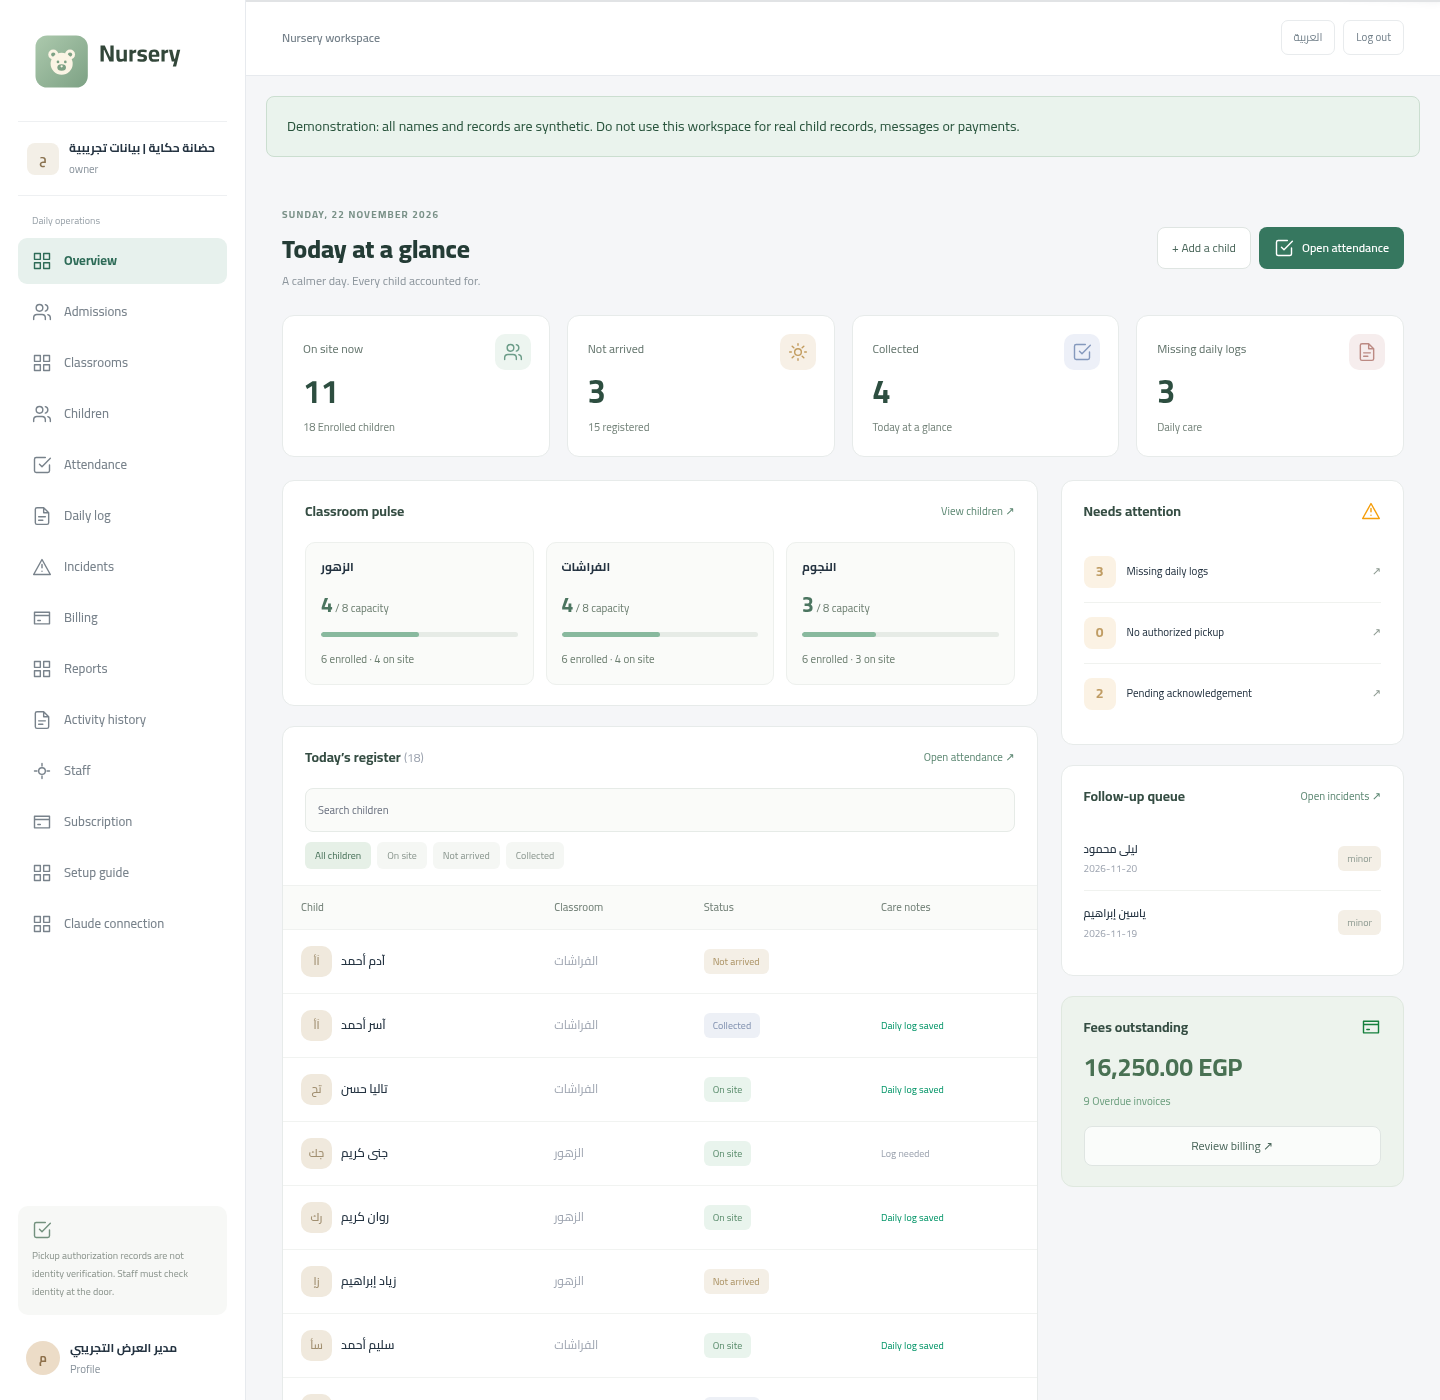
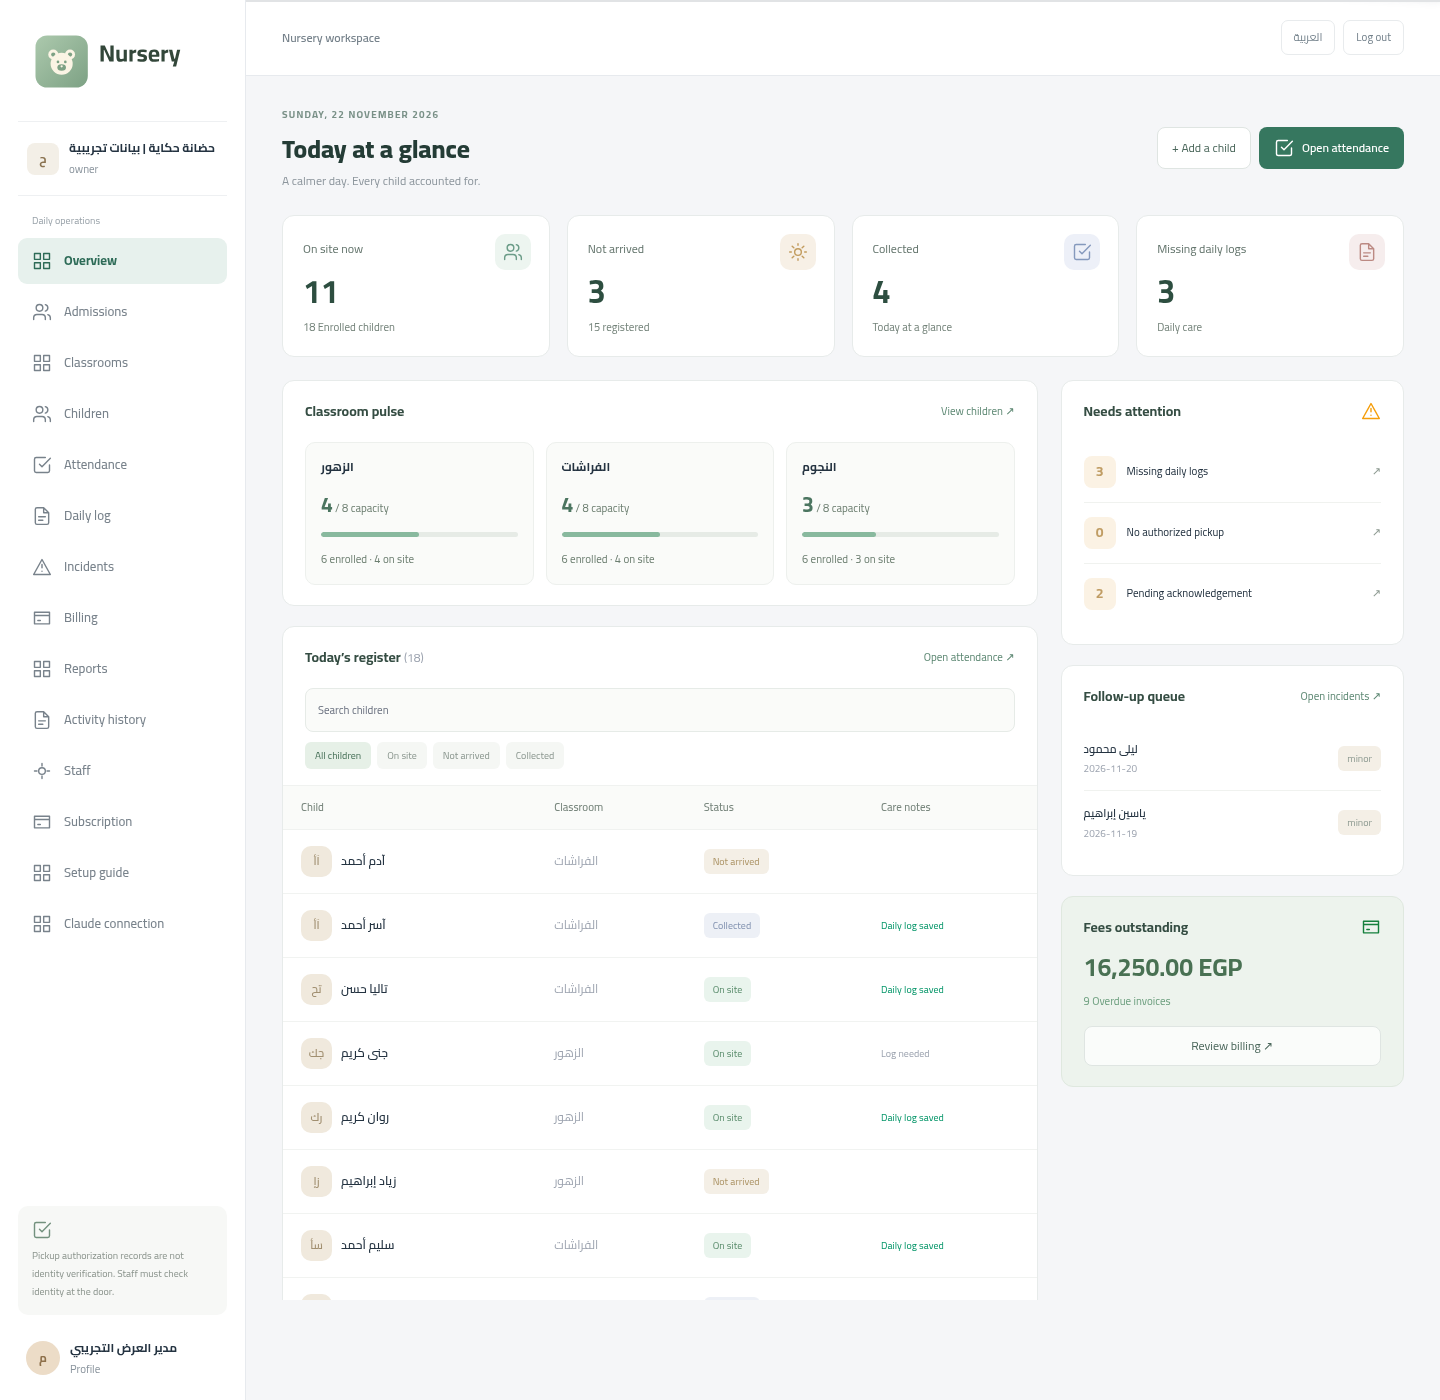
Remove demo-data notices and refresh landing preview imagery
Drops the synthetic-data banner from the authenticated layout and the
product caption on the landing page, and updates the three dashboard
preview images. Navigation and layout structure unchanged.

diff --git a/resources/js/Layouts/AuthenticatedLayout.vue b/resources/js/Layouts/AuthenticatedLayout.vue
@@ -133,17 +133,6 @@ const active = (n) =>
             </header>
             <main>
                 <p
-                    v-if="page.props.auth.nursery?.is_demo"
-                    class="subscription-banner"
-                    role="status"
-                >
-                    {{
-                        locale === "ar"
-                            ? "عرض تجريبي: كل الأسماء والبيانات اصطناعية. لا تستخدمه لسجلات أطفال حقيقيين أو للتواصل أو التحصيل الفعلي."
-                            : "Demonstration: all names and records are synthetic. Do not use this workspace for real child records, messages or payments."
-                    }}
-                </p>
-                <p
                     v-if="page.props.auth.subscription === false"
                     class="subscription-banner"
                     role="status"

diff --git a/resources/js/Pages/Welcome.vue b/resources/js/Pages/Welcome.vue
@@ -190,15 +190,6 @@ function submit() {
                         />
                         </picture>
                     </div>
-                    <div class="product-caption">
-                        <span>✳</span
-                        >{{
-                            L(
-                                "لقطة من المنتج. بيانات تمثيلية فقط.",
-                                "A real product screen. Synthetic data only.",
-                            )
-                        }}
-                    </div>
                 </div>
             </section>
             <section class="landing-principles">
